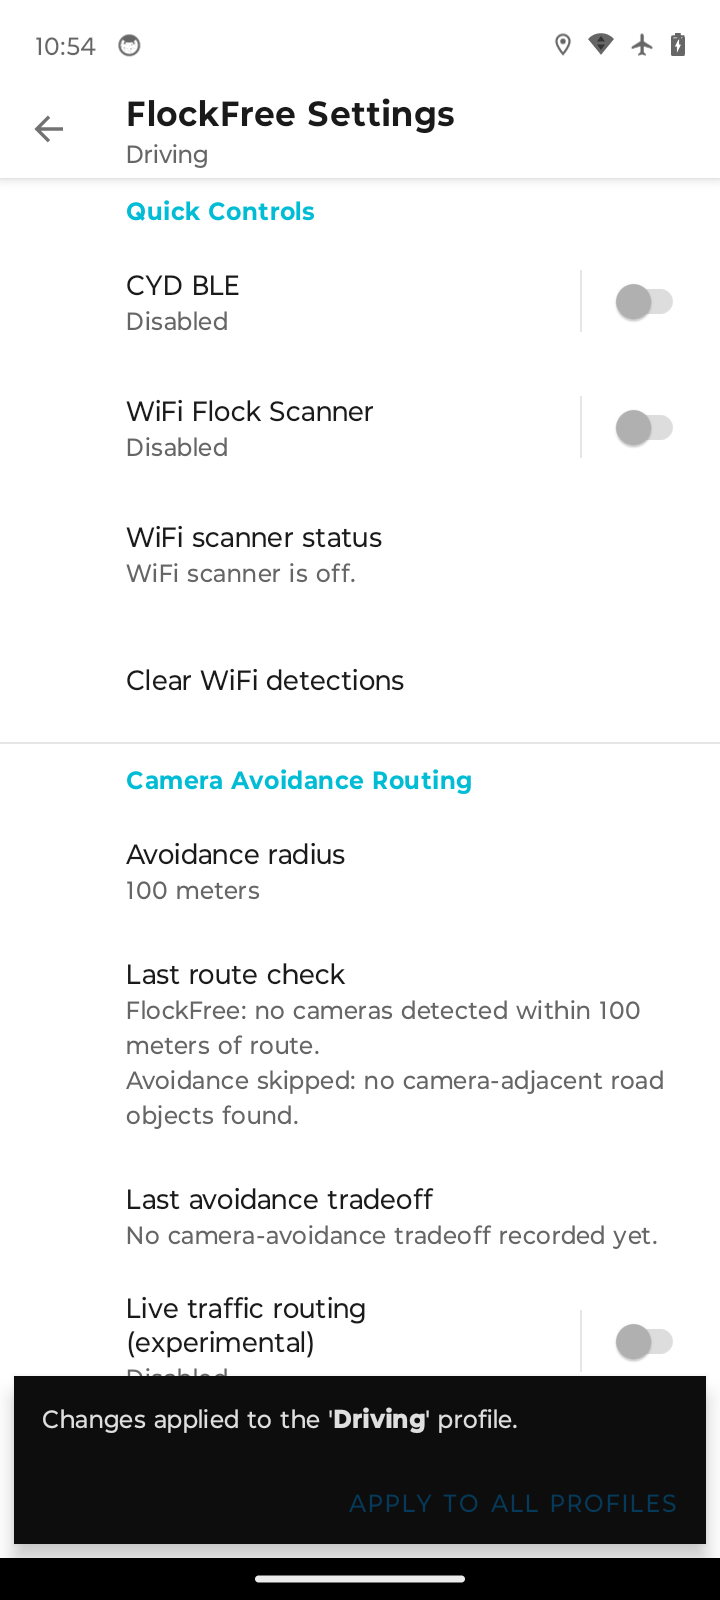
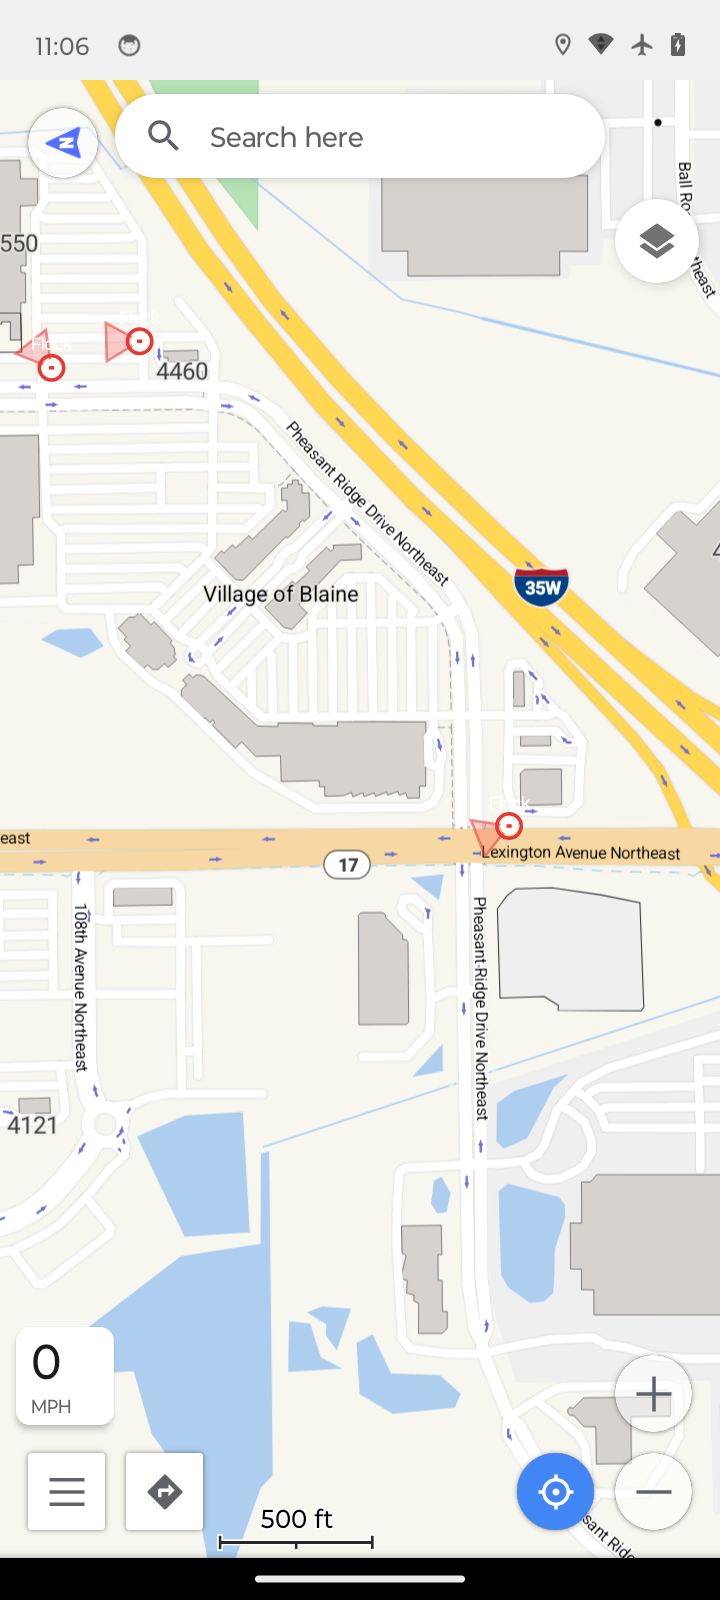
docs: update map screenshot and add navigation HUD screenshot
- Replace ff-map.png with current map view (South St. Paul, spoofed location)
- Add ff-nav-options.png showing route options / navigation HUD
- Reference new screenshot in Map and Navigation Experience section

diff --git a/README.md b/README.md
@@ -41,6 +41,9 @@ FlockFree Navigation is an OsmAnd fork with an in-tree FlockFree plugin for ALPR
 - **Traffic route colors and widget** — Optional route-line coloring and the Traffic widget show live-data coverage, stale/no-data status, and refresh state.
 
 ### Map and Navigation Experience
+
+![Navigation HUD](docs/screenshots/ff-nav-options.png)
+
 - **Google Maps-inspired map styling** — Refined land (#F5F5F0), water (#AECDF0), and park (#C8E6C9) colors with reduced POI clutter, subtler road casing, and cleaner route colors. Night-mode palette tuned to match Google Maps dark theme.
 - **Modern navigation HUD** — Search bar, layer button, circular map controls, compact ETA/speed presentation, and a simplified blue location puck.
 - **Google Maps-style turn indicators** — Main turn card uses a teal background with a bold white arrow. The second-next-turn preview appears as a compact white chip below the main indicator with a blue arrow, dark distance text, and grey street name — matching Google Maps' layered turn guidance layout.